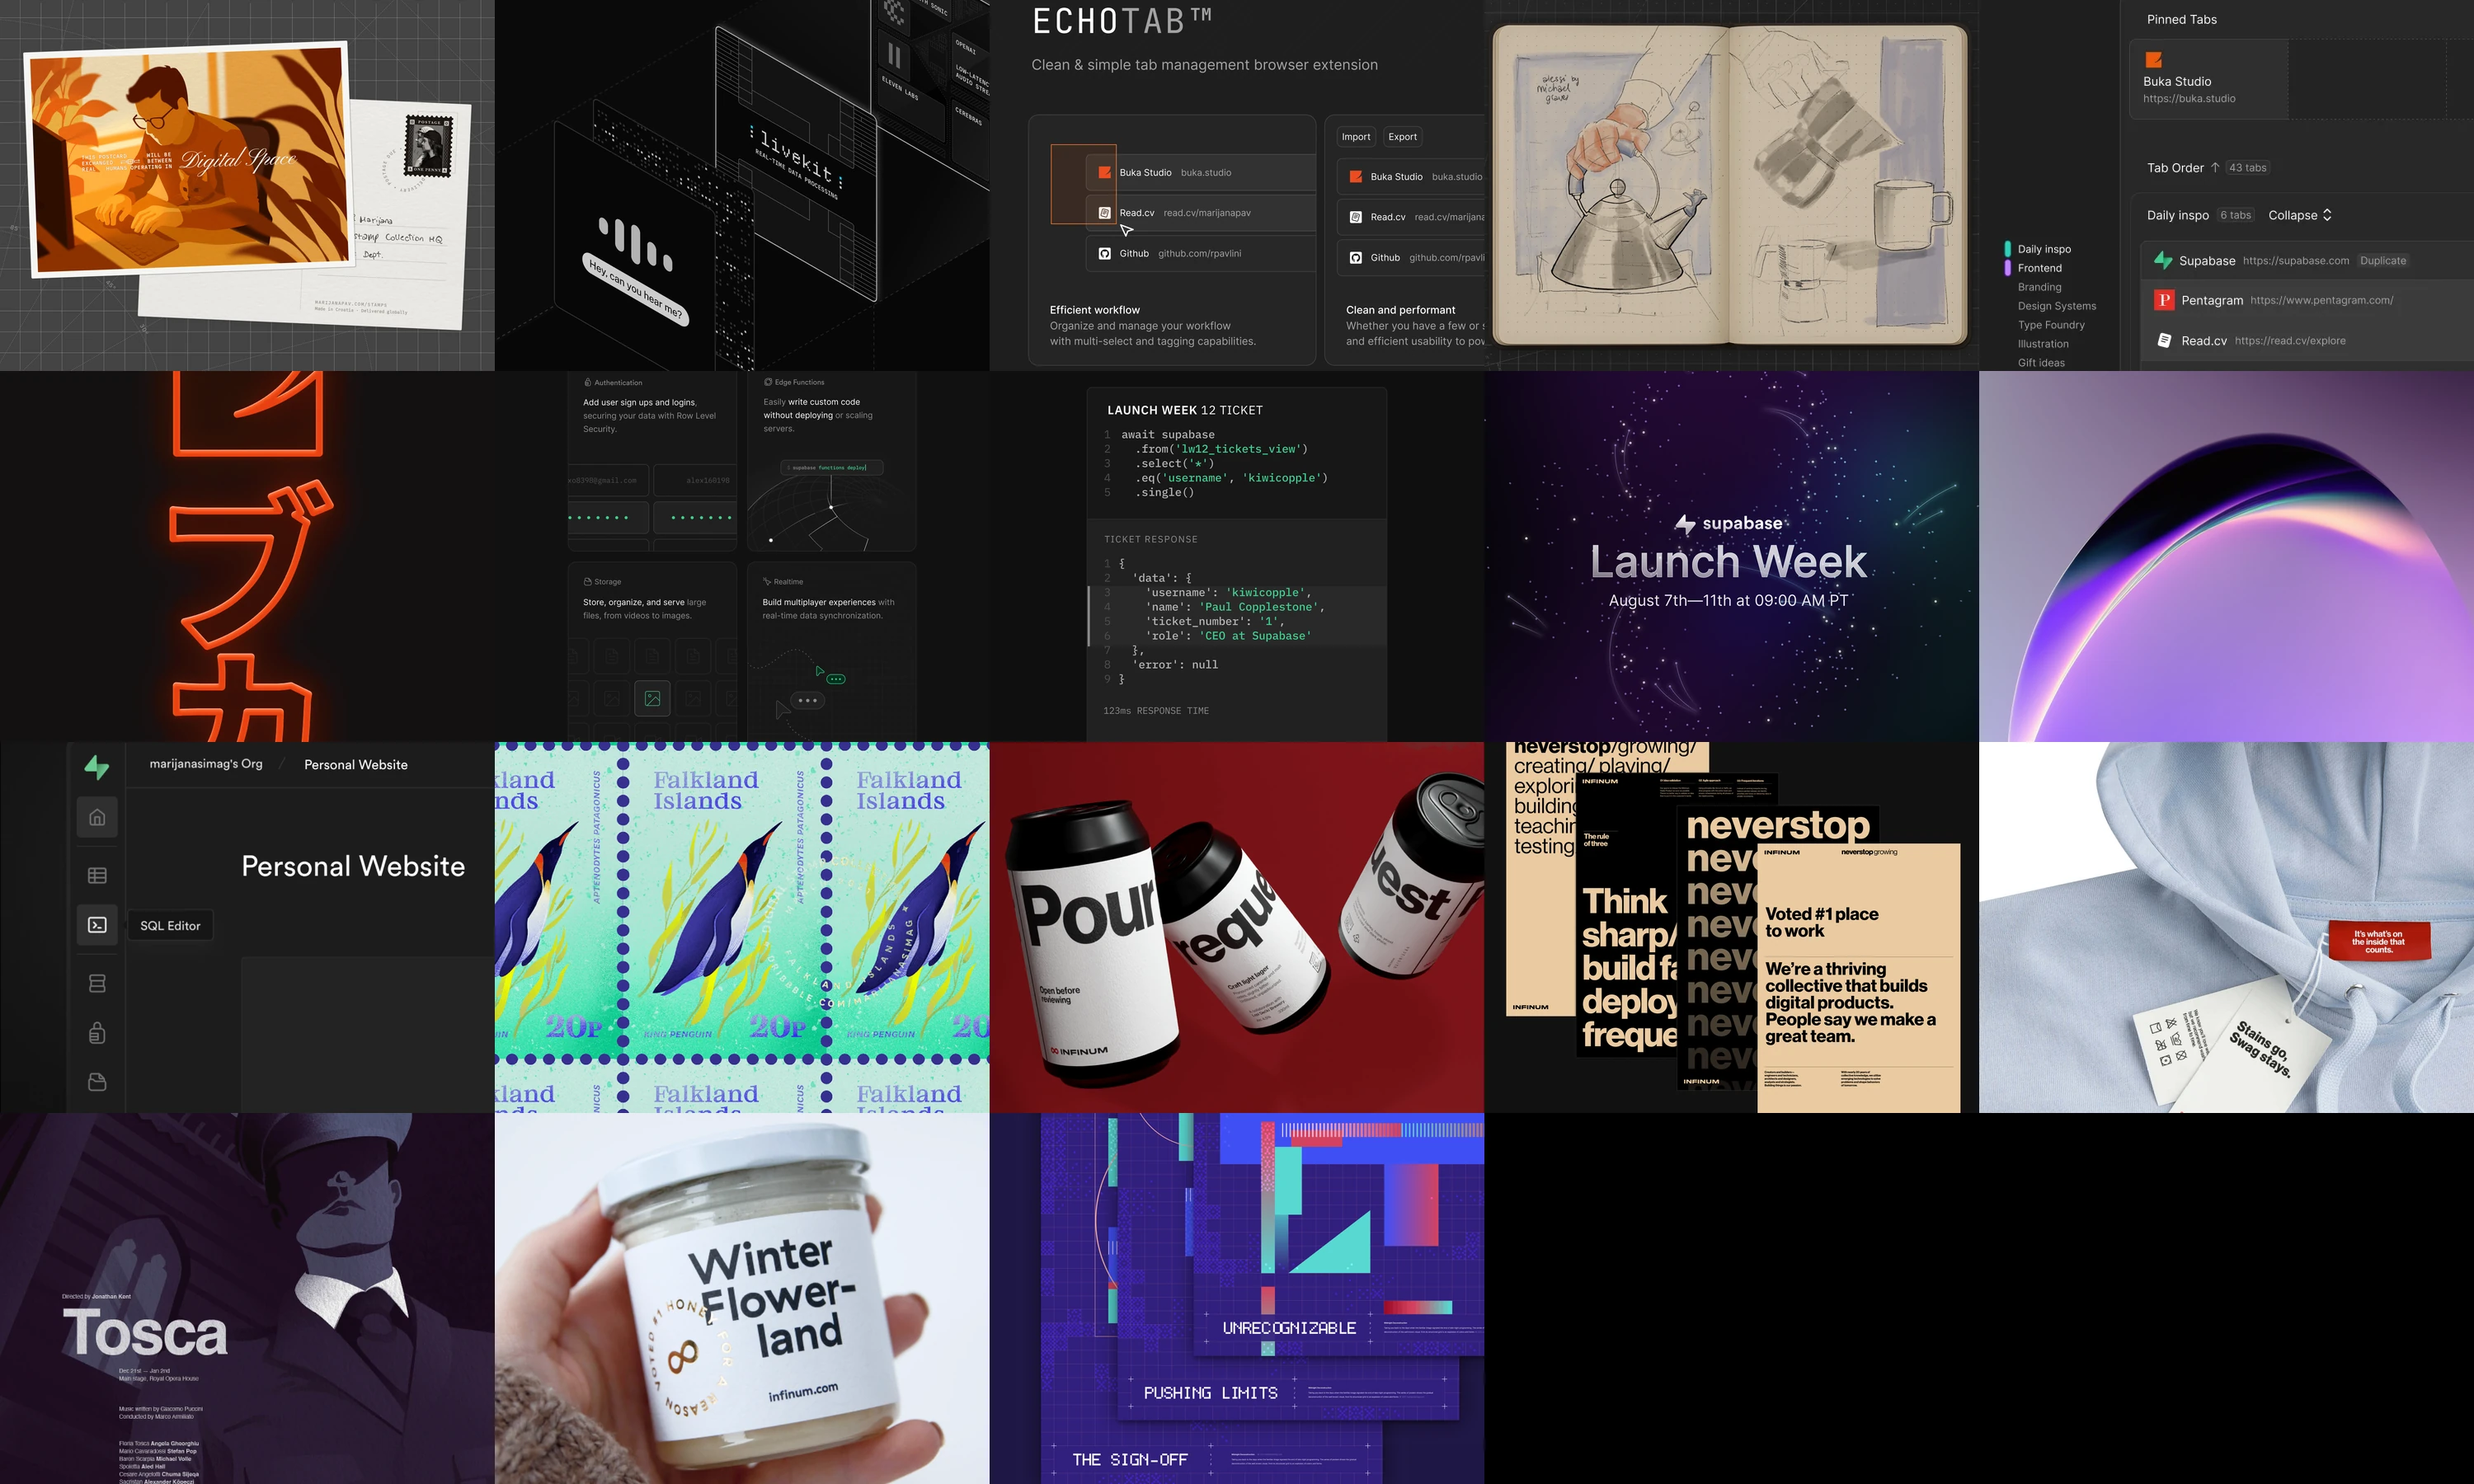
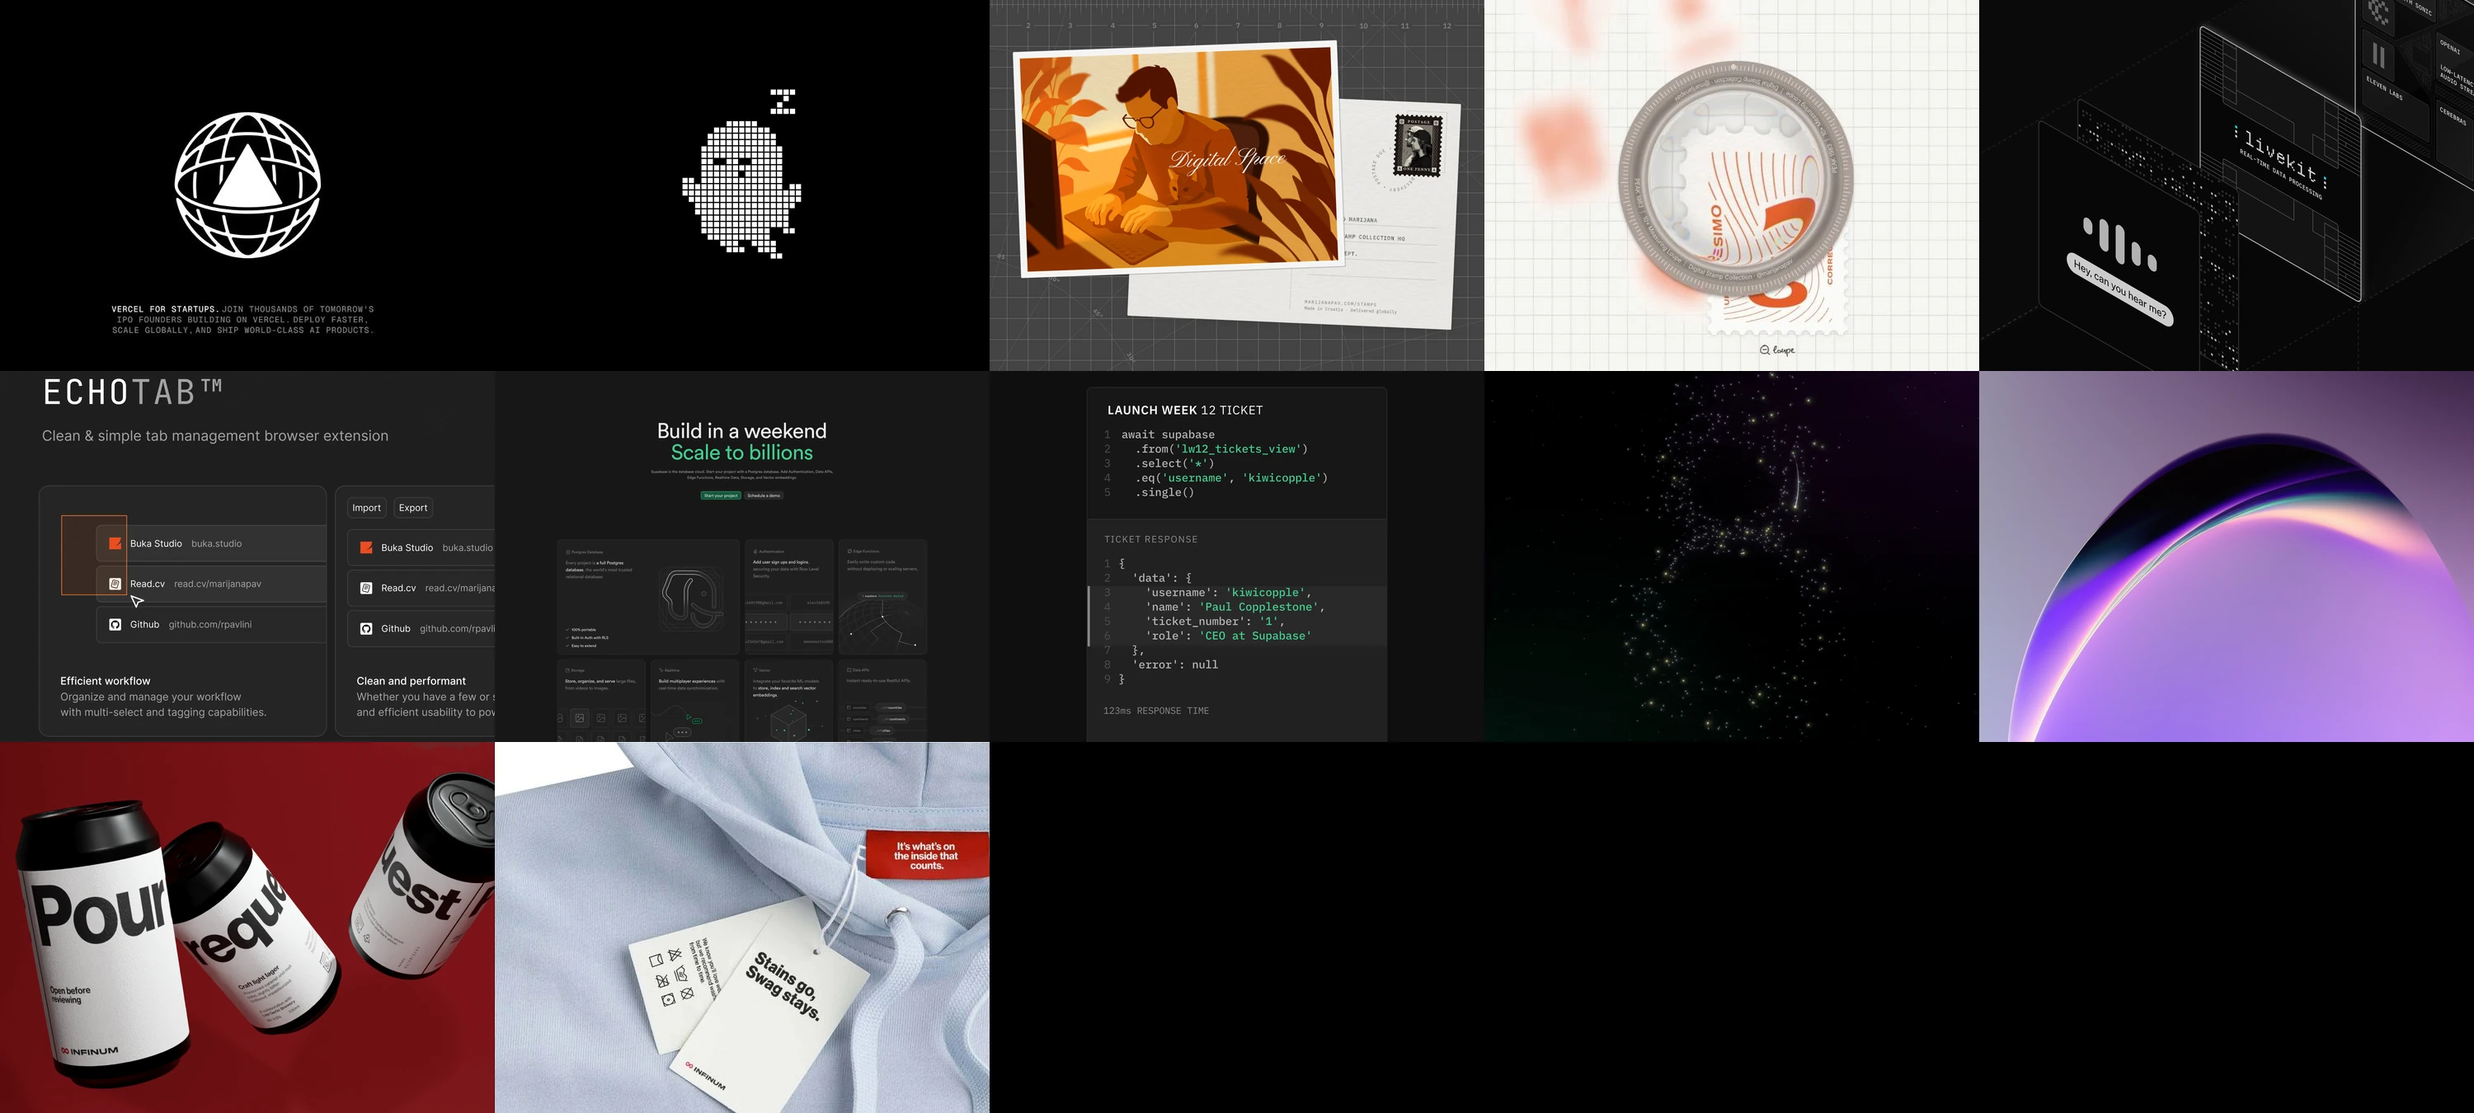
update atlas

diff --git a/src/app/(main)/work/constants.tsx b/src/app/(main)/work/constants.tsx
@@ -10,6 +10,8 @@ import ElizabethsFlowers03 from '~/public/work/elizabeths-flowers/elizabethsflow
 import ElizabethsFlowers04 from '~/public/work/elizabeths-flowers/elizabethsflowers_04.png';
 import ElizabethsFlowers05 from '~/public/work/elizabeths-flowers/elizabethsflowers_05.png';
 import ElizabethsFlowers from '~/public/work/elizabeths-flowers/preview.png';
+import GeistImpactSprites from '~/public/work/geist-impact/geist-impact-sprites.png';
+import GeistImpactPreview from '~/public/work/geist-impact/preview.png';
 import HavgrimPreview00 from '~/public/work/havgrim/havgrim_00.png';
 import HavgrimPreview01 from '~/public/work/havgrim/havgrim_01.png';
 import HavgrimPreview02 from '~/public/work/havgrim/havgrim_02.png';
@@ -31,56 +33,40 @@ import InfinumMerch03 from '~/public/work/infinum-merch/infinum_merch_03.png';
 import InfinumMerch04 from '~/public/work/infinum-merch/infinum_merch_04.png';
 import InfinumMerch05 from '~/public/work/infinum-merch/infinum_merch_05.png';
 import KettlePreview from '~/public/work/kettle/preview.png';
+import LiveKitWebsitePreview from '~/public/work/livekit-website/livekit-enterprise-scale.jpg';
+import LiveKitWebsite02 from '~/public/work/livekit-website/livekit-explorations.png';
+import LiveKitWebsite01 from '~/public/work/livekit-website/livekit-features-grid.jpg';
+import LiveKitWebsite04 from '~/public/work/livekit-website/livekit-sdk-features.jpg';
+import LiveKitWebsite05 from '~/public/work/livekit-website/livekit-values.jpg';
+import LiveKitWebsite03 from '~/public/work/livekit-website/livekit-voice-ai-hero.jpg';
+import LiveKitLayers from '~/public/work/livekit/livekit-layers.jpg';
 import LiveKit01 from '~/public/work/livekit/livekit_1.png';
 import LiveKit02 from '~/public/work/livekit/livekit_2.png';
 import LiveKit03 from '~/public/work/livekit/livekit_3.png';
 import LiveKit04 from '~/public/work/livekit/livekit_4.png';
-import LiveKitLayers from '~/public/work/livekit/livekit-layers.jpg';
 import LiveKitPreview from '~/public/work/livekit/livekit_preview.png';
-import LiveKitWebsitePreview from '~/public/work/livekit-website/livekit-enterprise-scale.jpg';
-import LiveKitWebsite01 from '~/public/work/livekit-website/livekit-features-grid.jpg';
-import LiveKitWebsite02 from '~/public/work/livekit-website/livekit-explorations.png';
-import LiveKitWebsite03 from '~/public/work/livekit-website/livekit-voice-ai-hero.jpg';
-import LiveKitWebsite04 from '~/public/work/livekit-website/livekit-sdk-features.jpg';
-import LiveKitWebsite05 from '~/public/work/livekit-website/livekit-values.jpg';
 import MidnightStudio00 from '~/public/work/midnight-studio/midnight-studio_00.png';
 import MidnightStudio01 from '~/public/work/midnight-studio/midnight-studio_01.png';
 import MidnightStudio02 from '~/public/work/midnight-studio/midnight-studio_02.png';
 import MidnightStudioPreview from '~/public/work/midnight-studio/midnight-studio_preview.png';
+import FeedbackPostcards00 from '~/public/work/postcard/feedback-postcard_00.png';
 import Sketchbook01 from '~/public/work/sketchbook/sketchbook_1.png';
 import Sketchbook02 from '~/public/work/sketchbook/sketchbook_2.png';
 import Sketchbook02a from '~/public/work/sketchbook/sketchbook_2a.png';
 import Sketchbook03 from '~/public/work/sketchbook/sketchbook_3.png';
 import SketchbookPreview from '~/public/work/sketchbook/sketchbook_main.png';
 import Stars from '~/public/work/stamps/stars.gif';
+import SupabaseArchitectureDiagrams from '~/public/work/supabase-homepage/supabase-architecture-diagrams.jpg';
+import SupabaseCareers from '~/public/work/supabase-homepage/supabase-careers.png';
+import SupabaseDashboardMigrations from '~/public/work/supabase-homepage/supabase-dashboard-migrations.png';
 import SupabaseHomepagePreview from '~/public/work/supabase-homepage/supabase-homepage-hero.png';
+import SupabaseHomepageOverview from '~/public/work/supabase-homepage/supabase-homepage-overview.png';
+import SupabaseOpenSource from '~/public/work/supabase-homepage/supabase-open-source.png';
 import SupabaseHomepage01 from '~/public/work/supabase-homepage/supabase01.png';
 import SupabaseHomepage02 from '~/public/work/supabase-homepage/supabase02.png';
 import SupabaseHomepage03 from '~/public/work/supabase-homepage/supabase03.png';
-import SupabaseHomepageOverview from '~/public/work/supabase-homepage/supabase-homepage-overview.png';
-import SupabaseCareers from '~/public/work/supabase-homepage/supabase-careers.png';
-import SupabaseOpenSource from '~/public/work/supabase-homepage/supabase-open-source.png';
-import SupabaseDashboardMigrations from '~/public/work/supabase-homepage/supabase-dashboard-migrations.png';
-import SupabaseArchitectureDiagrams from '~/public/work/supabase-homepage/supabase-architecture-diagrams.jpg';
-import SupabaseIcons00 from '~/public/work/supabase-icons/supabase-icons_00.png';
 import SupabaseIconsGif from '~/public/work/supabase-icons/supabase-icons.webp';
-import SupabaseLW6 from '~/public/work/supabase-lw6/preview.png';
-import SupabaseLW71 from '~/public/work/supabase-lw7/lw7-01.png';
-import SupabaseLW72 from '~/public/work/supabase-lw7/lw7-02.png';
-import SupabaseLW73 from '~/public/work/supabase-lw7/lw7-03.png';
-import SupabaseLW74 from '~/public/work/supabase-lw7/lw7-04.png';
-import SupabaseLW75 from '~/public/work/supabase-lw7/lw7-05.png';
-import SupabaseLW76 from '~/public/work/supabase-lw7/lw7-06.png';
-import SupabaseLW7 from '~/public/work/supabase-lw7/preview.png';
-import SupabaseLW8 from '~/public/work/supabase-lw8/supabase0.png';
-import SupabaseLW81 from '~/public/work/supabase-lw8/supabase1.png';
-import SupabaseLW82 from '~/public/work/supabase-lw8/supabase2.png';
-import SupabaseLW83 from '~/public/work/supabase-lw8/supabase3.png';
-import SupabaseLW8OgDay2 from '~/public/work/supabase-lw8/supabase-lw8-og-day2.jpg';
-import SupabaseLW8OgDay3 from '~/public/work/supabase-lw8/supabase-lw8-og-day3.jpg';
-import SupabaseLW8OgDay4 from '~/public/work/supabase-lw8/supabase-lw8-og-day4.jpg';
-import SupabaseLW8OgDay5 from '~/public/work/supabase-lw8/supabase-lw8-og-day5.jpg';
-import SupabaseLW8PostLaunch from '~/public/work/supabase-lw8/supabase-lw8-post-launch.png';
+import SupabaseIcons00 from '~/public/work/supabase-icons/supabase-icons_00.png';
 import SupabaseLW12Preview from '~/public/work/supabase-lw12/preview.png';
 import SupabaseLW12Grid from '~/public/work/supabase-lw12/supabase-launch-week-12-grid.png';
 import SupabaseLW12Tickets from '~/public/work/supabase-lw12/supabase-launch-week-12-tickets.jpg';
@@ -90,21 +76,35 @@ import SupabaseLW1203 from '~/public/work/supabase-lw12/supabase03.png';
 import SupabaseLW1204 from '~/public/work/supabase-lw12/supabase04.png';
 import SupabaseLW1205 from '~/public/work/supabase-lw12/supabase05.png';
 import SupabaseLW1206 from '~/public/work/supabase-lw12/supabase06.png';
-import VercelStartups from '~/public/work/vercel-startups/vercel-startups-hero.png';
-import VercelStartupsLogo from '~/public/work/vercel-startups/vercel-startups-logo.png';
-import VercelStartupsCap from '~/public/work/vercel-startups/vercel-startups-cap.jpg';
-import VercelStartupsWovenLabel from '~/public/work/vercel-startups/vercel-startups-woven-label.jpg';
+import SupabaseLW6 from '~/public/work/supabase-lw6/preview.png';
+import SupabaseLW71 from '~/public/work/supabase-lw7/lw7-01.png';
+import SupabaseLW72 from '~/public/work/supabase-lw7/lw7-02.png';
+import SupabaseLW73 from '~/public/work/supabase-lw7/lw7-03.png';
+import SupabaseLW74 from '~/public/work/supabase-lw7/lw7-04.png';
+import SupabaseLW75 from '~/public/work/supabase-lw7/lw7-05.png';
+import SupabaseLW76 from '~/public/work/supabase-lw7/lw7-06.png';
+import SupabaseLW7 from '~/public/work/supabase-lw7/preview.png';
+import SupabaseLW8OgDay2 from '~/public/work/supabase-lw8/supabase-lw8-og-day2.jpg';
+import SupabaseLW8OgDay3 from '~/public/work/supabase-lw8/supabase-lw8-og-day3.jpg';
+import SupabaseLW8OgDay4 from '~/public/work/supabase-lw8/supabase-lw8-og-day4.jpg';
+import SupabaseLW8OgDay5 from '~/public/work/supabase-lw8/supabase-lw8-og-day5.jpg';
+import SupabaseLW8PostLaunch from '~/public/work/supabase-lw8/supabase-lw8-post-launch.png';
+import SupabaseLW8 from '~/public/work/supabase-lw8/supabase0.png';
+import SupabaseLW81 from '~/public/work/supabase-lw8/supabase1.png';
+import SupabaseLW82 from '~/public/work/supabase-lw8/supabase2.png';
+import SupabaseLW83 from '~/public/work/supabase-lw8/supabase3.png';
+import WeightOfPaperDesk from '~/public/work/the-weight-of-paper/weight-of-paper-desk.jpg';
+import WeightOfPaper03 from '~/public/work/the-weight-of-paper/weight-of-paper-loupe-ui.png';
+import WeightOfPaperPreview from '~/public/work/the-weight-of-paper/weight-of-paper-loupe.png';
+import WeightOfPaper02 from '~/public/work/the-weight-of-paper/weight-of-paper-moodboard.png';
+import WeightOfPaper01 from '~/public/work/the-weight-of-paper/weight-of-paper-stamps.png';
+import VercelDiagramLibrary02 from '~/public/work/vercel-diagram-library/vercel-diagram-cache-miss.png';
 import VercelDiagramLibraryPreview from '~/public/work/vercel-diagram-library/vercel-diagram-library-overview.jpg';
 import VercelDiagramLibrary01 from '~/public/work/vercel-diagram-library/vercel-diagram-reason.png';
-import VercelDiagramLibrary02 from '~/public/work/vercel-diagram-library/vercel-diagram-cache-miss.png';
-import GeistImpactPreview from '~/public/work/geist-impact/preview.jpg';
-import GeistImpactSprites from '~/public/work/geist-impact/geist-impact-sprites.png';
-import WeightOfPaperPreview from '~/public/work/the-weight-of-paper/weight-of-paper-loupe.png';
-import WeightOfPaper01 from '~/public/work/the-weight-of-paper/weight-of-paper-stamps.png';
-import WeightOfPaper02 from '~/public/work/the-weight-of-paper/weight-of-paper-moodboard.png';
-import WeightOfPaper03 from '~/public/work/the-weight-of-paper/weight-of-paper-loupe-ui.png';
-import WeightOfPaperDesk from '~/public/work/the-weight-of-paper/weight-of-paper-desk.jpg';
-import FeedbackPostcards00 from '~/public/work/postcard/feedback-postcard_00.png';
+import VercelStartupsCap from '~/public/work/vercel-startups/vercel-startups-cap.jpg';
+import VercelStartups from '~/public/work/vercel-startups/vercel-startups-hero.png';
+import VercelStartupsLogo from '~/public/work/vercel-startups/vercel-startups-logo.png';
+import VercelStartupsWovenLabel from '~/public/work/vercel-startups/vercel-startups-woven-label.jpg';
 
 import FeedbackPostcards01 from '~/public/work/postcard/feedback-postcard_01.png';
 import FeedbackPostcards02 from '~/public/work/postcard/feedback-postcard_02.png';

diff --git a/src/app/(main)/work/components/Projects.tsx b/src/app/(main)/work/components/Projects.tsx
@@ -17,7 +17,7 @@ type Props = {
 type ViewMode = 'grid' | 'list';
 
 function getViewMode(view: string | null): ViewMode {
-  return view === 'list' ? 'list' : 'grid';
+  return view === 'grid' ? 'grid' : 'list';
 }
 
 export default function Projects({ projects }: Props) {
